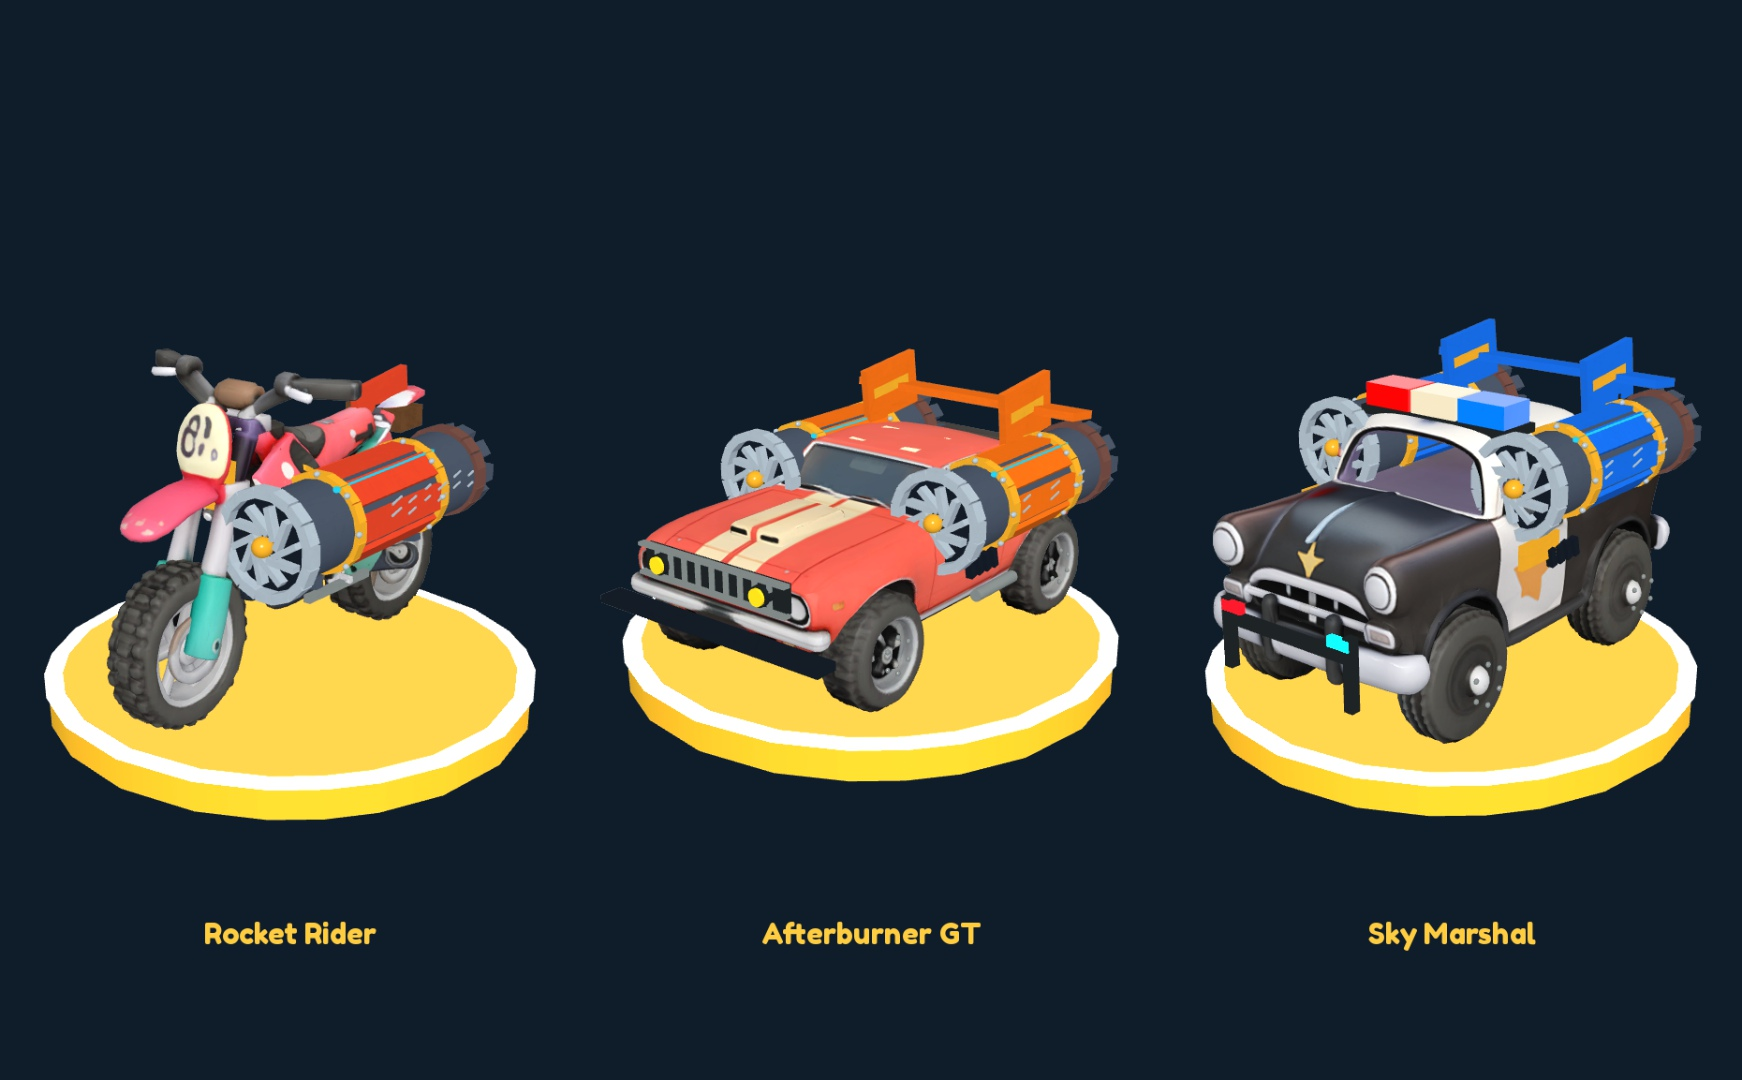
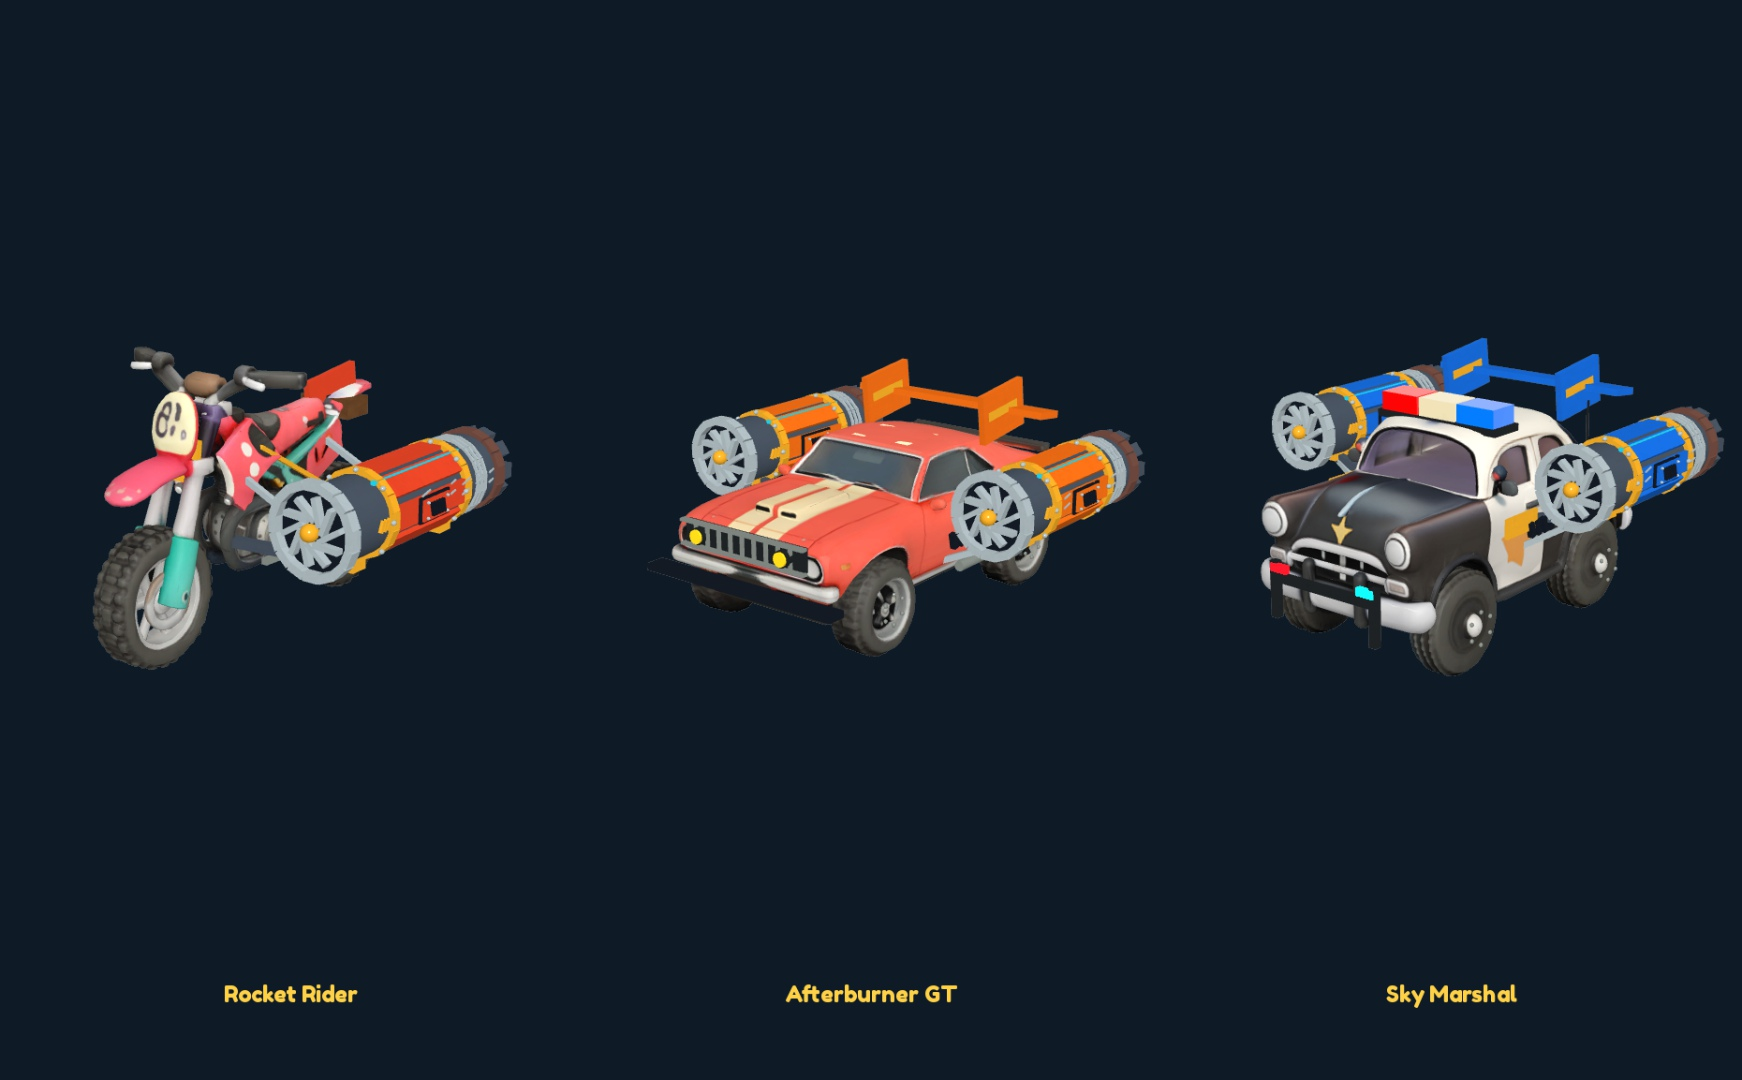
Clear jet turbines from vehicle bodies and add mechanical detail

diff --git a/assets/legendary-jets/README.md b/assets/legendary-jets/README.md
@@ -4,17 +4,17 @@ Built from main `87ff281b032c158ba462a1c62a170749d08ed37c` and installed in the 
 
 | Exact template name | Detailed base | Parts | Longest side |
 | --- | --- | --- | --- |
-| Rocket Rider | Dirt Bike | 161 | 7 studs |
-| Afterburner GT | Muscle Car | 343 | 7 studs |
-| Sky Marshal | Cop Cruiser | 330 | 7 studs |
+| Rocket Rider | Dirt Bike | 239 | 7 studs |
+| Afterburner GT | Muscle Car | 511 | 7 studs |
+| Sky Marshal | Cop Cruiser | 498 | 7 studs |
 
 `preview.png` is an actual Studio client viewport capture. Each model preserves the detailed base vehicle and adds segmented turbines, intake fans, mounting braces, metal bands, fasteners, heat cores, fuel lines, and wear marks. The cars have paired jets and rear wings; the bike has a single side-mounted turbine.
 
 ## Restore into Studio
 
 1. Stop Play. The detailed Dirt Bike, Muscle Car, and Cop Cruiser must already exist in `ReplicatedStorage.ItemModels`. Their source backups are in `../detailed-vehicles/` in this same commit. Use those versions to reproduce this build exactly; the builder clones the current base templates.
-2. Run `build.luau` in the Edit command bar/MCP. It creates the three results in `ServerStorage.LegendaryBuildStaging_20260923`. It refuses to replace an existing result.
-3. Inspect the staged models, then run `install.luau`. It validates all three before moving them into `ReplicatedStorage.ItemModels`, again refusing to overwrite existing templates.
+2. Run `build.luau` in the Edit command bar/MCP. It creates the three results in `ServerStorage.LegendaryBuildStaging_20260923`, leaving existing templates alone. An existing staging folder blocks another build.
+3. Inspect the staged models, then run `install.luau`. It validates all three before moving them into `ReplicatedStorage.ItemModels`. Only the original `LegendaryJetFusions_20260923` revision may be replaced; those models are moved into a timestamped ServerStorage backup. Any other existing revision blocks installation.
 4. Save the place. Publishing is a separate step. Rojo's script sync alone does not run these builders or install models.
 
 Do not delete an existing result just to rerun this builder. Preserve it in a separate backup first if an intentional replacement is needed. A failed build may leave a staging folder; inspect/remove that specific staging folder before retrying.
@@ -31,3 +31,11 @@ Do not delete an existing result just to rerun this builder. Preserve it in a se
 No recipe, economy, save, UI, world-generation, or base-template scripts were changed. Test clones did not grant or remove inventory items. Temporary runtime checks were destroyed; Studio was returned to Edit. An Edit-only review display remains at `Workspace.CodexLegendaryJetReview` around (70, 505, 0).
 
 Still untested: an actual player fusion and saved-pad round trip, published-server behavior, and mobile/many-model performance. The other fused-result rebuild/rescale tasks remain outstanding.
+
+## Revision 2: spacing and mechanical detail
+
+`LegendaryJetFusions_20260923_v2` moves every turbine outside the base vehicle's full bounding envelope. Measured minimum clearances after final scaling are .118 studs (bike), .140 (muscle car), and .135 (police cruiser). Only structural mounting brackets bridge that gap. Wider cars remain 7 studs on their longest side (width); their lengths are now approximately 6.69 and 6.45 studs.
+
+Added layered service panels, cooling louvres, rivets, warning stripes, exhaust cooling ribs, mounting saddles, and triangulated supports. Original templates were backed up in ServerStorage before installation. The preview was replaced with a fresh client capture.
+
+Repeated fresh Play checks at scales .55, 1, and 1.3: welded movement/rotation, resize, tint, and fade passed for all three. Viewport clones rendered; all 15 mesh assets loaded; Output showed no errors. Higher part counts have not been stress-tested on mobile.
